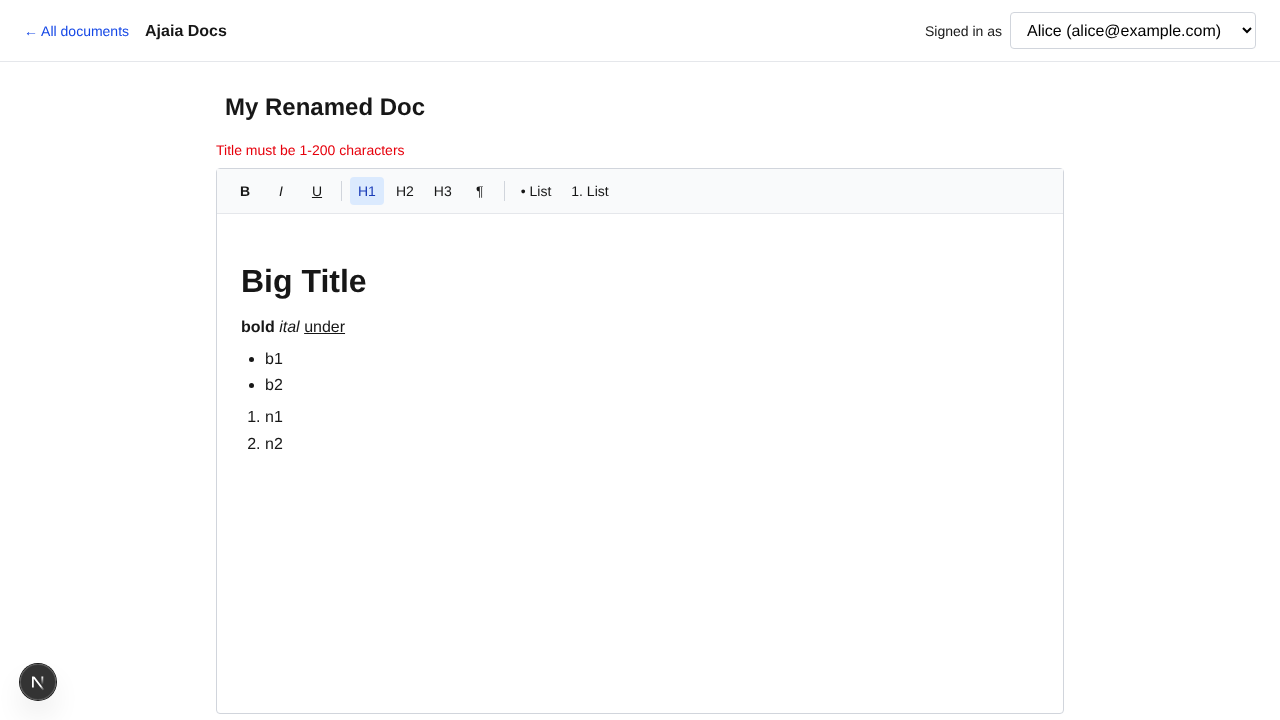
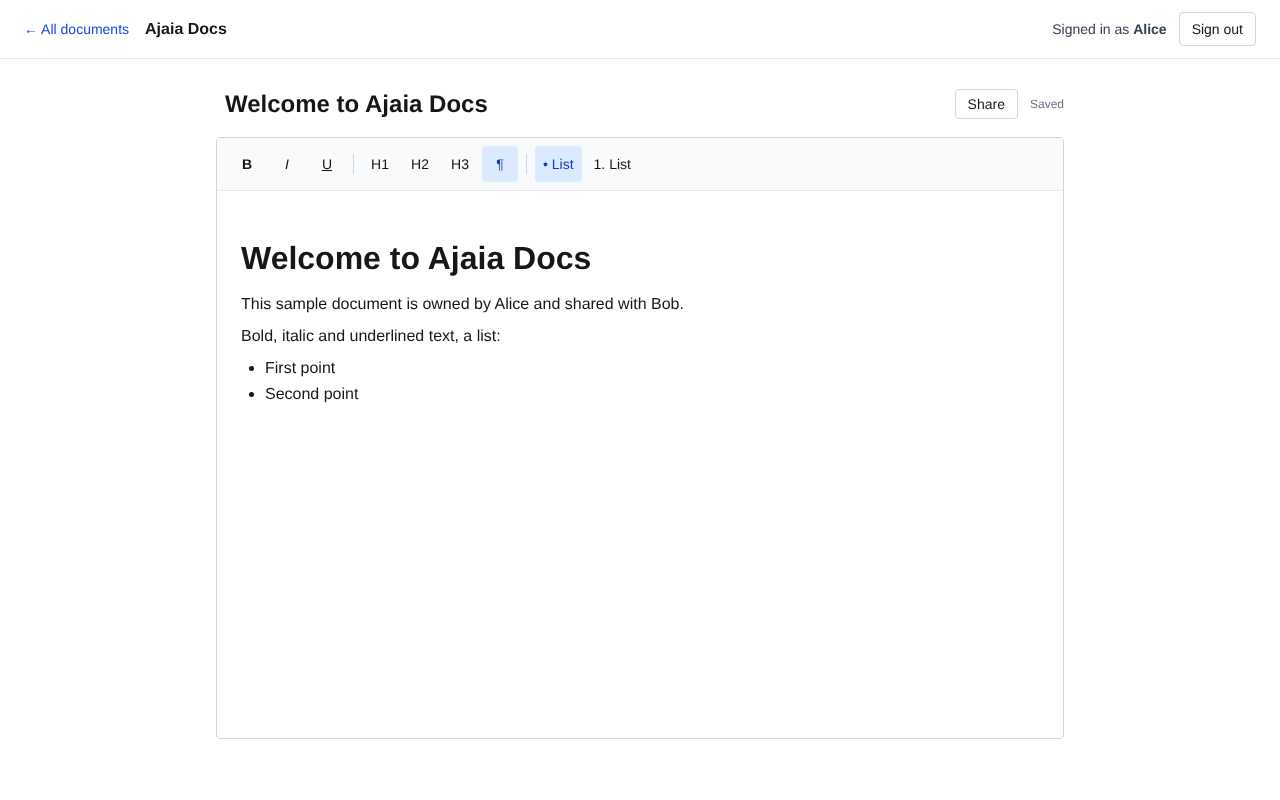
Submission fixes

diff --git a/docs/FINAL_REPORT.md b/docs/FINAL_REPORT.md
@@ -1,0 +1,92 @@
+# Final report: Ajaia Docs (collaborative document editor)
+
+Take-home assignment, 240-minute window, 12:45 to 16:45 ET on 23 Nov 2026. AI-permitted; every AI step is logged in
+[`AI_PROCESS_LOG.md`](../AI_PROCESS_LOG.md).
+
+**Live app:** https://ajaia-docs-eu0h.onrender.com (free Render instance; the first request after idle can take about a
+minute). **Repo:** https://github.com/VinayD2028/ajaia-docs. **Accounts:** `alice@example.com`, `bob@example.com`,
+`carol@example.com`, password `ajaia-demo` for all three.
+
+## 1. What I built
+
+A small full-stack document editor: Next.js 16 (App Router) and React 19 with TypeScript, a TipTap v3 rich-text editor,
+Tailwind v4, and Postgres (Neon in production, embedded PGlite locally and in tests).
+
+| Requirement | What exists |
+|---|---|
+| Create, rename, edit, save, reopen | Dashboard with New document; inline title rename; 800 ms autosave with flush on leave; status text (Saving / Saved / Save failed) |
+| Rich text | Bold, italic, underline, H1-H3, bulleted and numbered lists; content stored as ProseMirror JSON |
+| File upload | `.txt`, `.md`, `.docx` (max 2 MB, UTF-8, up to 20,000 paragraphs) become a new editable document; supported types shown in the UI and README |
+| Sharing | Owner shares by email as *Can view* or *Can edit*; change or remove access; dashboard separates **My documents** from **Shared with me** with a permission badge; view-only users get a read-only editor |
+| Persistence | Documents, content and shares in Postgres; survive refresh, restart and redeploy (verified by restarting the server) |
+| Sign-in | Email and password; scrypt hashes; signed, expiring httpOnly session cookie; Sign out; one user per browser until sign-out |
+| Validation and errors | Title, content-schema, depth and size checks; 400/401/403/404/409/413/429 with plain messages; no half-created documents on failed imports |
+| Tests | 69 unit tests (real Postgres via PGlite), a 58-check HTTP smoke script, ~300 adversarial QA checks |
+| Docs | README, architecture note, AI workflow note, QA report, SUBMISSION, video outline and link file |
+| Deployment | Docker image on Render (Blueprint `render.yaml`), Neon database, `/api/health` check |
+
+## 2. Key decisions and tradeoffs
+
+- **Scope:** depth on editing, sharing, import and persistence; no real-time collaboration, comments or export.
+- **Storage:** content as TipTap JSON (keeps structure exactly); async `Db` interface over `pg` in production and PGlite
+  elsewhere so tests run on real Postgres semantics.
+- **Hosting:** first SQLite on Render's free disk (lost data on sleep), then Postgres. Render's free database is deleted
+  after 30 days, so the live site uses Neon's free plan, which has no expiry (but no real backups).
+- **Access model:** 404 (not 403) when you have no access, so document ids don't leak; 403 for view-only writes and
+  non-owner sharing.
+- **Concurrency:** a version number per document; a stale save gets 409 and a reload banner instead of silently
+  overwriting. Conflicts are detected, not merged.
+- **Auth:** deliberately basic (three seeded users, one published demo password); see limits below.
+
+Full detail: [`ARCHITECTURE.md`](ARCHITECTURE.md).
+
+## 3. How it was built (timeline, minutes into the 240)
+
+| Window | Work |
+|---|---|
+| 0-30 | Scaffold, data layer, document API, editor UI, sharing, import (small single-layer prompts, each checked by running code) |
+| 30-60 | Tests, Docker and deploy readiness, documentation, first deploy to Render |
+| 60-105 | Persistence rework: SQLite to Postgres, Neon, restart-persistence check, production guard after an out-of-memory deploy |
+| 105-130 | Adversarial QA: 5 trials, 10 findings, then fixes in severity order |
+| 130-155 | Sign-in/sign-out with signed sessions; live-site checks |
+| 155+ | Final documentation, screenshots, Drive folder |
+
+## 4. Adversarial QA and fixes
+
+Report-only first, then fixed. Full table: [`QA-REPORT.md`](QA-REPORT.md).
+
+- **Critical:** a ~2 MB text file of one-character paragraphs hung and then killed the server. Fixed with an element cap checked before conversion.
+- **High:** Back then Forward showed an empty editor and typing wiped the saved text. Fixed by re-reading the document on Back/Forward/tab focus and by version-checked saves. The exact cause of the stale page was inferred, not proven; the fix is verified by repro.
+- **Medium:** NUL characters caused 500s; content validation was weak (unknown nodes, `javascript:` links, deep nesting); two tabs overwrote each other silently. All fixed.
+- **Low:** offline edits not retried; share-dialog focus and double-click problems; non-UTF-8 files mangled; mobile overflow. All fixed.
+
+## 5. What I verified, and what I did not
+
+Verified: 69 unit tests; the 58-check smoke script; 67 access-control checks (no leaks, correct 401/403/404, revocation);
+browser flows for two and three users; repro scripts for all ten QA findings after the fixes; live-site sign-in, sign-out,
+access and health after deployment.
+
+Not verified: Safari and Firefox; an automated accessibility scan; the live site under the adversarial scripts (they ran
+on a local production build); behaviour under real load.
+
+## 6. AI usage (summary)
+
+Claude acted as prompt engineer, coding agent and process logger. It produced the vertical slice, the tests and the
+fixes; I chose the architecture tradeoffs, ran the account and deploy steps (Render, GitHub, Neon, database secret),
+uploaded the code, and tried the live site. I did not hand-write the application code or read every generated line; I
+relied on tests, scripts and live checks. Real defects found by checking rather than trusting are listed in
+[`AI_WORKFLOW.md`](AI_WORKFLOW.md) and the log.
+
+## 7. Known limitations and what I would build next (2-4 hours)
+
+Limitations:
+- Seeded accounts sharing one public demo password; no sign-up, reset or OAuth; login throttling is in memory per instance; no CSRF tokens beyond SameSite=Lax.
+- No merge or live collaboration; no presence indicators.
+- `.docx` import keeps text, headings, bold/italic/underline and lists only (no tables or images); no document delete UI; no export.
+- The live database is Neon's free tier: no real backups.
+
+Next:
+1. Real accounts (sign-up, per-user passwords or OAuth, server-side session revocation).
+2. Real-time sync (Yjs or similar) with presence.
+3. Markdown/PDF export and version history.
+4. Committed Playwright tests in CI, an accessibility scan, and scheduled off-host database backups.

diff --git a/docs/VIDEO_SCRIPT.md b/docs/VIDEO_SCRIPT.md
@@ -1,0 +1,59 @@
+# Walkthrough script (about 4 minutes at a normal pace)
+
+Edit anything that is not true to you; say it in your own words. The facts below match what was built and tested.
+
+**Before recording:** open https://ajaia-docs-eu0h.onrender.com a minute early so the free host is awake. Have three
+tabs ready: the app, `docs/AI_WORKFLOW.md` on GitHub, and a terminal in the project. Have `tests/fixtures/sample.docx`
+ready to pick. Use Loom or YouTube (unlisted) and screen-share the browser.
+
+---
+
+**[0:00 Sign-in page]**
+"Hi, I'm Vinay. This is Ajaia Docs, a small collaborative document editor I built in a four-hour window with AI
+assistance. It's a Next.js and React app with a TipTap editor, backed by Postgres on Neon, deployed with Docker on
+Render. I deliberately kept the scope small, so I'll show what works end to end and what I left out. There are three
+demo accounts, Alice, Bob and Carol, with one shared demo password, which I've shown here for reviewers."
+
+**[0:20 Sign in as Alice, create a document]**
+"I'll sign in as Alice and create a new document. I can rename it right in the title. I'll type some text and use bold,
+italic, underline, headings, and bulleted and numbered lists. Autosave runs after a short pause and the status shows
+Saving, then Saved. If I refresh, everything is still there, because the content is stored as the editor's JSON, so the
+formatting survives, and it lives in Postgres, so it also survives restarts and redeploys."
+
+**[1:15 Import]**
+"For file handling I chose import. The UI says it accepts .txt, .md and .docx up to two megabytes. I'll pick a sample
+Word file. It becomes a new editable document with headings, bold, underline and lists kept. The import goes through the
+same editor schema as typing, so anything the editor can't represent, like scripts, is dropped. Tables and images in
+docx are not kept; that's a known cut."
+
+**[2:00 Sharing]**
+"Now sharing. Alice owns this document, so she sees a Share button. I'll share it with Bob as view-only. The dashboard
+separates My documents from Shared with me, with a permission badge. I'll sign out and sign in as Bob. He sees it under
+Shared with me, and the editor is read-only. Back as Alice I'll upgrade Bob to edit. Carol has no access, and if she opens
+the link she gets a not-found page, not a forbidden page, so document ids don't leak. The server checks access on every
+route, not just in the UI."
+
+**[3:00 Concurrency and tests]**
+"Two people can open the same document. I'll make an edit in one tab, then edit in the other. The second tab doesn't
+silently overwrite; it shows that the document changed elsewhere and offers a reload. That's a version number checked
+on every save. It detects conflicts, it doesn't merge them. For testing, I have 69 unit tests against real Postgres, a
+58-check HTTP script, and I also ran an adversarial QA pass with five hostile-tester roles. It found ten real problems,
+for example a large text file that could hang the server and a Back and Forward bug that could lose text. I fixed them
+in severity order and re-ran each repro."
+
+**[3:30 AI workflow]**
+"On AI: I used Claude as both prompt engineer and coding agent, in small prompts, one layer at a time, and I judged the
+output by running it, not reading it. It sped up the full vertical slice and the test breadth. It also got things wrong:
+docx import dropped underlined text, a native dependency broke the Docker build, and text was unreadable in dark mode.
+I caught those by testing, and they're written up in the AI workflow note and the process log. I made the architecture
+and hosting decisions myself, like moving to Postgres on Neon after Render's free database turned out to expire."
+
+**[3:50 Wrap-up]**
+"Deprioritized on purpose: sign-up and password reset, real-time collaboration and merging, export, version history, and
+tables and images in imports. With another two to four hours I'd add real accounts, real-time sync with presence, and
+Markdown and PDF export. Thanks for watching."
+
+---
+
+**If something goes wrong on camera:** the free host may take up to a minute to wake; wait for the sign-in page. Do not
+paste real data. Do not create many test documents on the live site (they are stored in the real database).

diff --git a/AI_PROCESS_LOG.md b/AI_PROCESS_LOG.md
@@ -441,8 +441,8 @@ No pre-written prompt: driven interactively by the user's decisions. Instruction
 
 - **Tools:** Claude (Sonnet 5.5) acted as prompt engineer, coding agent and process logger; headless Chrome (Playwright), Vitest, a bash smoke script, Claude in Chrome for GitHub, Render and Neon dashboards.
 - **Decomposition:** small, single-layer prompts in dependency order (scaffold, API, editor UI, sharing, import, tests, deploy readiness, docs, persistence), each with acceptance criteria that were checked by running code, not by reading it.
-- **Where the AI helped most:** the full vertical slice (schema, API, editor, sharing dialog, importer) in about the first half hour; breadth of tests (44 unit tests, a 54-check HTTP script, mutation checks); browser flows for several users; a live data-layer port from SQLite to Postgres with checks against a real Postgres server.
-- **Where verification mattered (real defects found by checking, not trusting):** `.docx` import silently dropped underlined text; the smoke script mutated seed data; `npm ci` tried to compile a native module and broke the Docker build; experimental template flags; a wrong cookie assumption in my own prompt; text unreadable in dark-mode browsers (found only on the live site); a ported test that read a property of a Promise; and an out-of-memory deploy when the embedded database fallback ran without a `DATABASE_URL`.
+- **Where the AI helped most:** the full vertical slice (schema, API, editor, sharing dialog, importer) in about the first half hour; breadth of tests (69 unit tests, a 58-check HTTP script, mutation checks, ~300 adversarial QA checks); browser flows for several users; a live data-layer port from SQLite to Postgres with checks against a real Postgres server.
+- **Where verification mattered (real defects found by checking, not trusting):** `.docx` import silently dropped underlined text; the smoke script mutated seed data; `npm ci` tried to compile a native module and broke the Docker build; experimental template flags; a wrong cookie assumption in my own prompt; text unreadable in dark-mode browsers (found only on the live site); a ported test that read a property of a Promise; an out-of-memory deploy when the embedded database fallback ran without a `DATABASE_URL`; and, from the adversarial QA, a server-killing import, a Back/Forward data-loss bug, silent overwrites between two tabs, and weak content validation (all fixed and re-tested).
 - **What I did by hand:** chose the tools and architecture tradeoffs (SQLite, then Postgres, then Neon, and rejecting a same-disk SQLite backup), created the Render, GitHub and Neon accounts' side of the setup, pasted the database secret myself, uploaded the code (no git on my PC) and verified the file counts, approved each deploy, and tried the live file import myself. I did not hand-write the application code and did not read every generated line; I relied on tests, scripts and live checks.
-- **What I would do with more time:** real authentication instead of seeded users; real-time collaboration (or at least conflict detection) instead of last-write-wins; Markdown/PDF export and version history; scheduled database backups kept outside the host (the free Neon plan has only a short restore window); table and image support in `.docx` import; browser-level automated tests in CI.
-- **Honest limits:** the live app is a demo (mock login, free hosting that sleeps when idle). I have not yet recorded the walkthrough video or personally re-read the whole codebase.
+- **What I would do with more time:** real accounts (sign-up, per-user passwords or OAuth) instead of three seeded users with one demo password; real-time collaboration or merge (conflicts are now detected with a version check, not merged); Markdown/PDF export and version history; scheduled database backups kept outside the host (the free Neon plan has only a short restore window); table and image support in `.docx` import; browser-level automated tests in CI.
+- **Honest limits:** the live app is a demo (seeded demo accounts with a shared password, free hosting that sleeps when idle). I have not yet recorded the walkthrough video or personally re-read the whole codebase.

diff --git a/SUBMISSION.md b/SUBMISSION.md
@@ -3,8 +3,8 @@
 ## Links
 
 - **Live product URL:** https://ajaia-docs-eu0h.onrender.com (Render free plan; the first request after idle can take about a minute to wake)
-- **Walkthrough video:** see `WALKTHROUGH_VIDEO.txt` <!-- TODO(candidate): record and paste the unlisted link there -->
-- **Google Drive folder:** <!-- TODO(candidate): folder link -->
+- **Walkthrough video:** https://drive.google.com/file/d/18iQve-n8Xf1Mc4lqiNVpUsHJHrcL_BjB/view?usp=drive_link (also in `WALKTHROUGH_VIDEO.txt`)
+- **Google Drive folder:** https://drive.google.com/drive/folders/1rAKKC8-T6a1B_gOV100O5zBZvRS-wcGx
 
 ## Test accounts
 
@@ -23,22 +23,35 @@ Documents are stored in a hosted Neon Postgres database, so they survive restart
 | `docs/AI_WORKFLOW.md` | AI workflow note |
 | `AI_PROCESS_LOG.md` | Prompts, iterations and process log |
 | `docs/VIDEO_OUTLINE.md`, `WALKTHROUGH_VIDEO.txt` | Talk track and the video link file |
-| `docs/screenshots/` | Editor, share dialog and import screenshots |
+| `docs/QA-REPORT.md` | Adversarial QA findings and fixes |
+| `docs/FINAL_REPORT.md` | Summary of the whole project (this assignment's final report) |
+| `docs/screenshots/` | Sign-in, dashboard, editor, share dialog and import screenshots |
 | `SUBMISSION.md` | This file |
 
 `node_modules/`, `.next/` and `data/` are intentionally excluded.
+
+## Layout of the Google Drive folder
+
+| Drive item | What it is |
+|---|---|
+| `source-code.zip` | The complete project (same tree as the GitHub repo, without `node_modules/`, `.next/`, `data/`) |
+| `README.md`, `SUBMISSION.md` | Setup/run instructions; this file |
+| `ARCHITECTURE.md`, `AI_WORKFLOW.md` | Architecture note; AI workflow note |
+| `FINAL_REPORT.md`, `QA-REPORT.md`, `AI_PROCESS_LOG.md` | Project summary; adversarial QA; prompt-by-prompt log |
+| `WALKTHROUGH_VIDEO.txt` | Walkthrough video URL |
+| `screenshots/` | Sign-in, dashboard, editor, share dialog, import |
 
 ## What works
 
 Create, rename, edit (bold, italic, underline, H1-H3, bullet and numbered lists), autosave, save and reopen; import of
 .txt/.md/.docx into a new document; owner-only sharing with view/edit permission and clear owned vs shared lists;
-persistence of content and sharing in Postgres (free Neon database in production, embedded PGlite locally); validation and error handling; 69 passing unit tests and a 58-check HTTP
-smoke script; production build and health check.
+persistence of content and sharing in Postgres (free Neon database in production, embedded PGlite locally); validation and error handling; sign-in/sign-out with signed sessions; 69 passing unit tests, a 58-check HTTP
+smoke script and a ~300-check adversarial QA pass; production build and health check.
 
 ## What is incomplete
 
 - Authentication is basic: three seeded accounts sharing one demo password, signed expiring session cookie, login throttling; no sign-up, password reset or OAuth.
-- Last write wins on concurrent edits; no real-time collaboration or presence.
+- Concurrent edits are detected (version check, 409 and a reload banner) but not merged; no real-time collaboration or presence.
 - Live-site database is Neon's free tier: data survives sleeps, restarts and redeploys, but the free plan has no real backups.
 - `.docx` import drops tables and images; no document delete or export UI.
 

diff --git a/docs/AI_WORKFLOW.md b/docs/AI_WORKFLOW.md
@@ -11,7 +11,7 @@
 
 ## How the work was decomposed
 
-Eight small prompts, each one layer with explicit acceptance criteria: scaffold and data layer, document API and access
+Eight small prompts (then persistence, QA hardening and sign-in as follow-ups), each one layer with explicit acceptance criteria: scaffold and data layer, document API and access
 logic, editor UI, sharing, file import, tests, deployment readiness, documentation. Each was run, verified, and only then
 followed by the next, so a mistake could not hide under later work.
 
@@ -57,7 +57,13 @@ followed by the next, so a mistake could not hide under later work.
   clean reseed without one.
 - **Docker:** my sandbox had no Docker daemon, so I first reproduced the build stages in a clean directory; the real
   `docker build` then ran on Render and succeeded, and I re-ran the access/sharing checks against the live URL.
-- **Not verified:** cross-browser behavior beyond Chrome, and concurrent editing.
+- **Adversarial QA pass (second half of the window):** I had the AI act as five hostile testers (first-time user, hostile
+  input, access-control attacker, upload abuser, chaos/concurrency) with a report-only rule, ~300 checks. It found 10 real
+  problems, including a 2 MB text file that killed the server and a Back/Forward bug that wiped saved text. The same
+  AI then fixed them in severity order; each fix has a test or a re-run repro. Details: [`QA-REPORT.md`](QA-REPORT.md).
+  Two of my QA-script failures were harness mistakes (an old server still on the port, my own test locking an account),
+  not app bugs; I fixed the scripts and did not count them as findings.
+- **Not verified:** Safari/Firefox, an accessibility scanner (axe), and the live site under the adversarial scripts (they ran against a local production build).
 
 ## What I did by hand, and what I decided
 
@@ -67,7 +73,7 @@ The AI wrote and ran the code. These are the parts I did myself or decided mysel
 - **Accounts and secrets.** I signed in to Render and GitHub, created the Neon account and project myself, and pasted the Neon connection string into Render's environment settings myself. The AI never saw that string.
 - **Getting the code live.** My PC has no git, so I uploaded the project to GitHub by drag-and-drop and committed it. I checked the upload list against the project (67 files) before committing. I did the same for the two later updates (33 files, then 9). I approved each deploy and the Render Blueprint.
 - **Testing on the live site.** I tried the file import on the live site myself and it worked. I also watched the app in my own browser, which uses a dark theme. The AI found the unreadable-text bug there; its headless tests only ran in light mode.
-
+- **What I did not do.** I did not write the application code by hand, and I did not review every generated line. I relied on the tests, the smoke script, the browser checks and the live-site checks described in this file and in the log.
 
 <!-- TODO(candidate): add here, only if true, anything else you personally did before submitting (for example: clicked
 through the live site as all three users, read through specific files, changed something after reviewing the code).

diff --git a/docs/VIDEO_OUTLINE.md b/docs/VIDEO_OUTLINE.md
@@ -8,8 +8,10 @@ Run on the live URL if it is awake (open it a minute early); otherwise run local
 | 0:20-1:15 | Alice: New document, type, bold/italic/underline/H1/lists, rename, "Saved", refresh | Autosave, content stored as TipTap JSON so formatting survives |
 | 1:15-2:00 | Import `sample.docx` / `sample.md` | Supported types shown in UI; converted through the editor schema; raw HTML dropped |
 | 2:00-3:00 | Share with Bob as view; sign out and sign in as Bob (read-only, badge); upgrade to edit; Carol gets 404 | Server enforces access; 404 not 403 to avoid leaking ids |
-| 3:00-3:30 | Terminal: `npm test` (69 passing), smoke script; mention mutation checks | How correctness was verified |
+| 3:00-3:30 | Two tabs on one doc: second tab shows the "changed elsewhere" banner; terminal: `npm test` (69 passing) | Version-checked saves; how correctness was verified; the QA pass that found 10 bugs |
 | 3:30-4:00 | `AI_PROCESS_LOG.md` and `AI_WORKFLOW.md` | How AI helped; real bugs it caused and I caught (docx underline, node-gyp deploy failure); what I cut and why |
 
-Deprioritized (say it explicitly): real auth, real-time collaboration, durable DB on the free host, rich docx import.
-Key decisions: Postgres (Neon in prod, PGlite locally) + Docker, schema-based import, 404 on no access, whole-document autosave.
+Deprioritized (say it explicitly): sign-up/password reset/OAuth (the demo accounts share one password), real-time collaboration and merge, export, version history, tables/images in docx import.
+Key decisions: Postgres (Neon in prod, PGlite locally) + Docker, schema-based import, 404 on no access, whole-document autosave with a version check.
+
+Word-for-word script: [VIDEO_SCRIPT.md](VIDEO_SCRIPT.md).

diff --git a/README.md b/README.md
@@ -47,7 +47,7 @@ npm run dev          # http://localhost:3000 ; creates ./data/pgdata and seeds d
 
 To reset all data, stop the server and delete the `data/` directory.
 
-Environment variables: `DATABASE_URL` (a `postgres://` URL; required in production), `DATABASE_SSL=true` (if the server needs TLS, as Neon does), `ALLOW_EMBEDDED_DB=true` (production only: allow the embedded database), `PGLITE_DIR` (embedded database directory when `DATABASE_URL` is unset; default `./data/pgdata`), `PORT` (default 3000).
+Environment variables: `DATABASE_URL` (a `postgres://` URL; required in production), `DATABASE_SSL=true` (if the server needs TLS, as Neon does), `ALLOW_EMBEDDED_DB=true` (production only: allow the embedded database), `PGLITE_DIR` (embedded database directory when `DATABASE_URL` is unset; default `./data/pgdata`), `SESSION_SECRET` (optional; signs session cookies, derived from `DATABASE_URL` if unset), `DEMO_PASSWORD` (optional; password given to the seeded users on first seed, default `ajaia-demo`), `PORT` (default 3000).
 
 ## Features
 
@@ -81,7 +81,7 @@ src/components/     Dashboard, Editor, Toolbar, ShareDialog, Header, SignInForm,
 src/lib/            db, seed, auth, access, documents, shares, import, validate, extensions, http
 tests/              unit tests + fixtures (sample.txt / .md / .docx)
 scripts/            api-smoke.sh, make-docx-fixture.py
-docs/               ARCHITECTURE.md, AI_WORKFLOW.md, VIDEO_OUTLINE.md, screenshots/
+docs/               ARCHITECTURE.md, AI_WORKFLOW.md, QA-REPORT.md, FINAL_REPORT.md, VIDEO_OUTLINE.md, screenshots/
 ```
 
 ## API summary (all JSON; identity comes from a signed, httpOnly `uid` session cookie)
